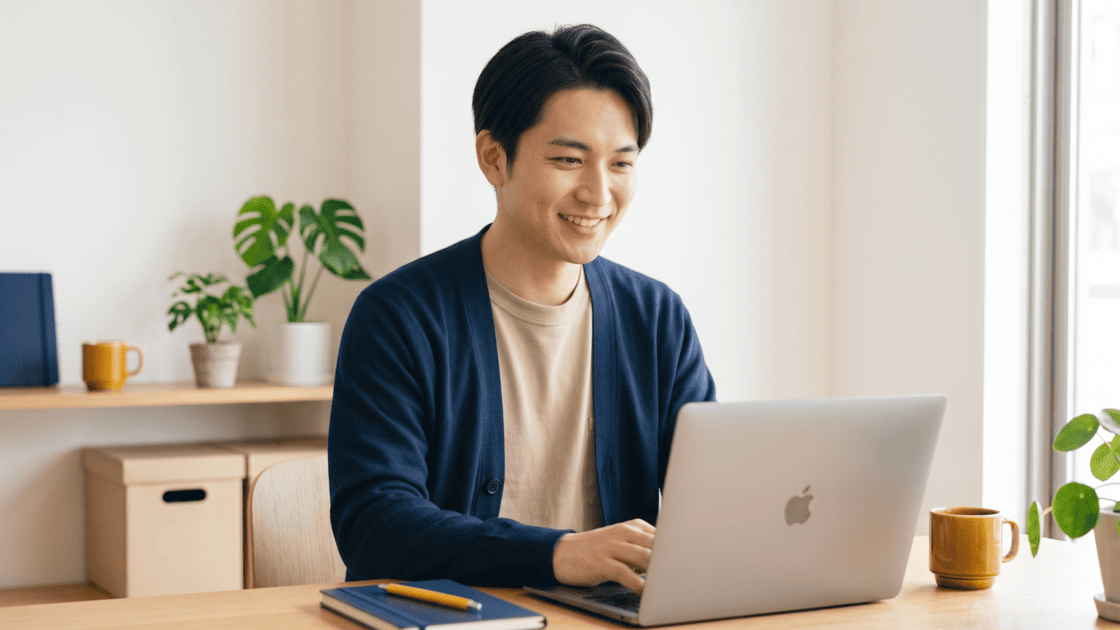
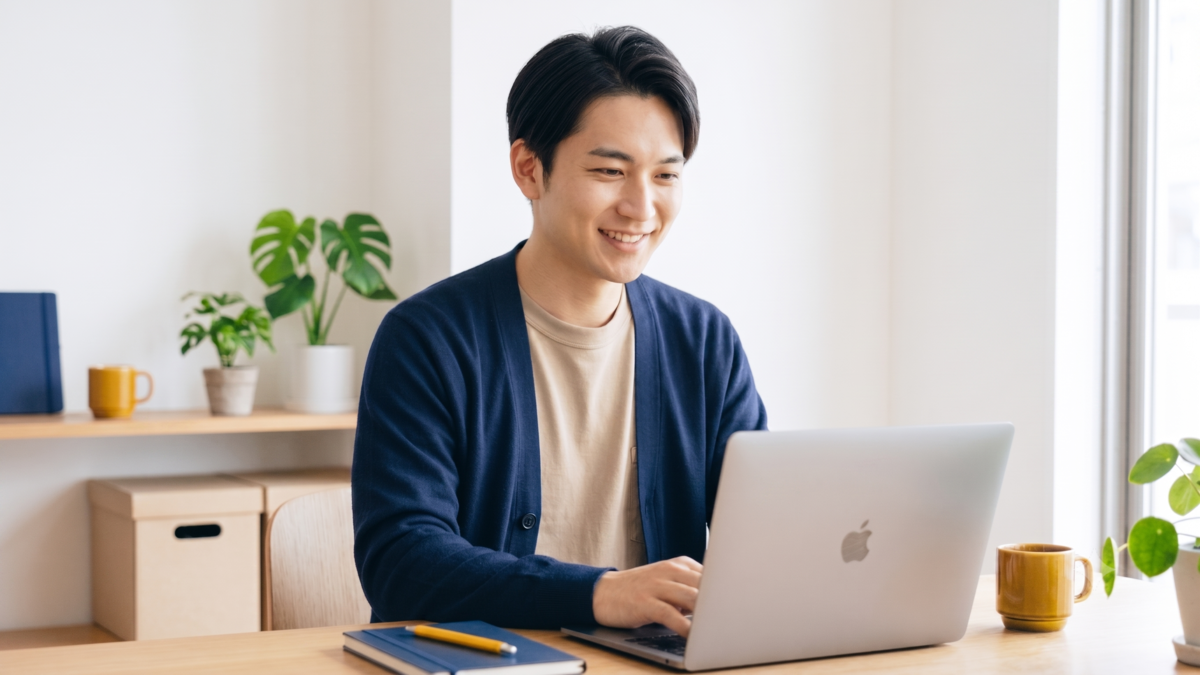
記事セクションの改修

diff --git a/components/ArticleListSection.tsx b/components/ArticleListSection.tsx
@@ -22,13 +22,79 @@ type Props = {
 };
 
 function PostMeta({ post }: { post: ArticleCard }) {
+  const categoryColor = getCategoryColor(post.category.id);
+
   return (
-    <div className="mb-2.5 flex items-center gap-3">
-      <span className="rounded-full bg-blue px-3 py-0.75 text-[11px] font-bold text-white">{post.category.name}</span>
-      <time className="font-[family-name:var(--font-oswald)] text-xs tracking-[.04em] text-navy/70" dateTime={post.publishedAt}>
+    <div className="mb-3 flex flex-wrap items-center gap-3 max-md:mb-2 max-md:gap-2.25">
+      <span
+        className="rounded-full border-[1.5px] border-navy px-3 py-1 text-[11px] leading-none font-bold text-navy max-md:px-2.5 max-md:py-0.75 max-md:text-[10px]"
+        style={{ backgroundColor: categoryColor }}
+      >
+        {post.category.name}
+      </span>
+      <time className="font-mono text-[11px] tracking-[.1em] text-[#8A93A8] max-md:text-[10px] max-md:tracking-[.04em]" dateTime={post.publishedAt}>
         {dayjs(post.publishedAt).format('YYYY.MM.DD')}
       </time>
     </div>
+  );
+}
+
+function getCategoryColor(categoryId: string) {
+  if (categoryId === 'career') {
+    return '#F3C9A6';
+  }
+
+  if (categoryId === 'programming') {
+    return '#C6D9F5';
+  }
+
+  if (categoryId === 'study-method') {
+    return '#C3E3CE';
+  }
+
+  return '#F5C543';
+}
+
+function SectionBackground({ type }: { type: 'recommended' | 'new' }) {
+  const isRecommended = type === 'recommended';
+
+  return (
+    <div className="pointer-events-none absolute inset-0 -z-1 overflow-hidden" aria-hidden="true">
+      {isRecommended ? (
+        <>
+          <svg className="absolute -top-8.5 right-17.5 size-52.5 opacity-[.06] max-md:-top-4.5 max-md:right-4.5 max-md:size-30" viewBox="0 0 24 24" fill="none">
+            <polygon points="12 2 15.09 8.26 22 9.27 17 14.14 18.18 21.02 12 17.77 5.82 21.02 7 14.14 2 9.27 8.91 8.26 12 2" stroke="#17233D" strokeLinecap="round" strokeLinejoin="round" strokeWidth="1.1" />
+          </svg>
+          <svg className="absolute bottom-1.5 left-[3%] size-37.5 opacity-[.05] max-md:bottom-2 max-md:left-[4%] max-md:size-21.5" viewBox="0 0 24 24" fill="none">
+            <polyline points="16 18 22 12 16 6" stroke="#17233D" strokeLinecap="round" strokeLinejoin="round" strokeWidth="1.1" />
+            <polyline points="8 6 2 12 8 18" stroke="#17233D" strokeLinecap="round" strokeLinejoin="round" strokeWidth="1.1" />
+          </svg>
+        </>
+      ) : (
+        <>
+          <svg className="absolute -top-7 right-16.5 size-50 opacity-[.06] max-md:-top-4 max-md:right-4 max-md:size-29" viewBox="0 0 24 24" fill="none">
+            <path d="M9.94 15.5A2 2 0 0 0 8.5 14.06l-6.14-1.58a.5.5 0 0 1 0-.96L8.5 9.94A2 2 0 0 0 9.94 8.5l1.58-6.14a.5.5 0 0 1 .96 0l1.58 6.14a2 2 0 0 0 1.44 1.44l6.14 1.58a.5.5 0 0 1 0 .96l-6.14 1.58a2 2 0 0 0-1.44 1.44l-1.58 6.14a.5.5 0 0 1-.96 0z" stroke="#17233D" strokeLinecap="round" strokeLinejoin="round" strokeWidth="1.1" />
+          </svg>
+          <svg className="absolute bottom-3 left-[3%] size-35 opacity-[.05] max-md:bottom-2.5 max-md:left-[4%] max-md:size-20.5" viewBox="0 0 24 24" fill="none">
+            <path d="M15 2H6a2 2 0 0 0-2 2v16a2 2 0 0 0 2 2h12a2 2 0 0 0 2-2V7z" stroke="#17233D" strokeLinecap="round" strokeLinejoin="round" strokeWidth="1.1" />
+            <path d="M14 2v4a2 2 0 0 0 2 2h4" stroke="#17233D" strokeLinecap="round" strokeLinejoin="round" strokeWidth="1.1" />
+          </svg>
+        </>
+      )}
+      <svg className="absolute top-[42%] right-[33%] size-13 opacity-[.06] max-md:hidden" viewBox="0 0 24 24" fill="none">
+        <path d="M12 2 2 12l10 10 10-10z" stroke="#17233D" strokeLinecap="round" strokeLinejoin="round" strokeWidth="1.1" />
+      </svg>
+    </div>
+  );
+}
+
+function HeadingIcon() {
+  return (
+    <span className="inline-flex size-7.5 items-center justify-center rounded-[9px] border-[1.5px] border-navy bg-yellow text-navy max-md:size-7 max-md:rounded-lg">
+      <svg className="size-4.25 max-md:size-3.75" viewBox="0 0 24 24" fill="none" aria-hidden="true">
+        <path d="M12 2l2.68 5.43 5.99.87-4.34 4.23 1.02 5.97L12 15.68 6.65 18.5l1.02-5.97L3.33 8.3l5.99-.87L12 2Z" stroke="currentColor" strokeLinecap="round" strokeLinejoin="round" strokeWidth="2" />
+      </svg>
+    </span>
   );
 }
 
@@ -46,58 +112,66 @@ export function ArticleListSection({
   }
 
   const [featuredPost, ...restPosts] = posts;
+  const isRecommended = englishTitle.toLowerCase().includes('recommended');
+  const sectionType = isRecommended ? 'recommended' : 'new';
   const cardClass =
-    'fade border-[1.5px] border-navy bg-white transition-[transform,border-color] duration-250 hover:-translate-y-1 hover:border-[#d9a521]';
+    'fade border-[1.5px] border-navy bg-white text-navy transition-[transform,box-shadow] duration-200 hover:-translate-x-0.5 hover:-translate-y-0.5 hover:shadow-[6px_6px_0_rgba(23,35,61,.14)]';
   const thumbClass =
-    'relative flex aspect-video items-center justify-center overflow-hidden border-b-[1.5px] border-navy bg-[repeating-linear-gradient(-45deg,#EAF1FB,#EAF1FB_12px,#dfeafd_12px,#dfeafd_24px)]';
+    'relative flex aspect-video items-center justify-center overflow-hidden bg-[#EFE7D5]';
+  const featuredOrderClass = isRecommended ? 'md:order-1' : 'md:order-2';
+  const listOrderClass = isRecommended ? 'md:order-2' : 'md:order-1';
 
   return (
-    <section className={`${sectionClass} article-list-section article-list-section--${variant} ${className}`}>
+    <section className={`relative isolate overflow-hidden ${sectionClass} article-list-section article-list-section--${variant} ${className}`}>
+      <SectionBackground type={sectionType} />
       <div className={innerClass}>
-        <div className="fade mb-12 flex flex-wrap items-end justify-between gap-4">
+        <div className="fade flex flex-wrap items-end justify-between gap-8 max-md:block">
           <div>
             <span className={outlineTitleClass}>{englishTitle}</span>
-            <h2 className="mt-3.5 text-[clamp(22px,3vw,30px)] font-bold">{title}</h2>
-            {lead && <p className="mt-3.5 max-w-170 text-[14.5px] text-navy/88 max-md:text-[13.5px]">{lead}</p>}
+            <div className="mt-3.5 flex items-center gap-3 max-md:mt-3 max-md:gap-2.5">
+              <HeadingIcon />
+              <h2 className="text-[18px] leading-[1.5] font-black max-md:text-[16px]">{title}</h2>
+            </div>
+            {lead && <p className="mt-4 max-w-160 text-[14px] leading-[2] text-[#33405A] max-md:mt-3.5 max-md:text-[13px] max-md:leading-[1.95]">{lead}</p>}
           </div>
           {showArchiveLink && (
-            <Link className={pillClass} href="/column">
+            <Link className={`${pillClass} mb-0.5 max-md:hidden`} href="/column">
               記事一覧を見る
               <span className={pillArrowClass}><ArrowIcon /></span>
             </Link>
           )}
         </div>
-        <div className="mt-2 grid grid-cols-[1.05fr_.95fr] gap-7 max-md:grid-cols-1">
-          <Link className={`${cardClass} block overflow-hidden rounded-xl`} href={`/column/${featuredPost.id}`}>
-            <div className={thumbClass}>
+        <div className="mt-9.5 grid grid-cols-[1.08fr_1fr] items-start gap-6.5 max-md:mt-6 max-md:grid-cols-1 max-md:gap-3.5">
+          <Link className={`${cardClass} ${featuredOrderClass} order-1 block overflow-hidden rounded-2xl shadow-[6px_6px_0_rgba(23,35,61,.08)] max-md:rounded-2xl max-md:shadow-[5px_5px_0_rgba(23,35,61,.1)]`} href={`/column/${featuredPost.id}`}>
+            <div className={`${thumbClass} border-b-[1.5px] border-navy`}>
               <Image
                 src={featuredPost.image.url}
                 alt={featuredPost.title}
                 fill
-                sizes="(max-width: 768px) calc(100vw - 48px), 575px"
+                sizes="(max-width: 768px) calc(100vw - 44px), 575px"
                 className="!h-full !w-full object-cover opacity-100"
               />
             </div>
-            <div className="px-5.5 pt-5 pb-6">
+            <div className="px-6 py-5.5 max-md:px-4.5 max-md:py-4.5">
               <PostMeta post={featuredPost} />
-              <h3 className="line-clamp-2 text-[19px] leading-[1.6]">{featuredPost.title}</h3>
+              <h3 className="line-clamp-2 text-[20px] leading-[1.65] font-extrabold max-md:text-[17px] max-md:leading-[1.6]">{featuredPost.title}</h3>
             </div>
           </Link>
-          <div className="flex flex-col gap-4">
+          <div className={`${listOrderClass} order-2 flex flex-col gap-4 max-md:gap-3.25`}>
             {restPosts.slice(0, 3).map((post) => (
-              <Link className={`${cardClass} grid grid-cols-[120px_1fr] items-center gap-4 rounded-xl p-3.5 max-md:grid-cols-1 max-md:gap-0 max-md:overflow-hidden max-md:p-0`} key={post.id} href={`/column/${post.id}`}>
-                <div className={`${thumbClass} aspect-16/9 rounded-lg border border-navy max-md:aspect-video max-md:rounded-none max-md:border-0 max-md:border-b-2`}>
+              <Link className={`${cardClass} grid grid-cols-[136px_1fr] items-center gap-4 rounded-[14px] p-3 max-md:grid-cols-[112px_1fr] max-md:gap-3.5 max-md:p-2.75`} key={post.id} href={`/column/${post.id}`}>
+                <div className={`${thumbClass} rounded-lg border border-navy/25`}>
                   <Image
                     src={post.image.url}
                     alt={post.title}
                     fill
-                    sizes="(max-width: 768px) calc(100vw - 48px), 120px"
+                    sizes="(max-width: 768px) 112px, 136px"
                     className="!h-full !w-full object-cover opacity-100"
                   />
                 </div>
-                <div className="max-md:px-5 max-md:pt-4 max-md:pb-5.5">
+                <div className="min-w-0">
                   <PostMeta post={post} />
-                  <h3 className="line-clamp-2 mt-1.5 text-[14.5px] leading-[1.6] max-md:mt-0 max-md:text-[16.5px]">{post.title}</h3>
+                  <h3 className="line-clamp-2 text-[14.5px] leading-[1.7] font-bold max-md:text-[13px] max-md:leading-[1.65]">{post.title}</h3>
                 </div>
               </Link>
             ))}

diff --git a/components/HomeHero.tsx b/components/HomeHero.tsx
@@ -2,6 +2,18 @@ import Image from 'next/image';
 import Link from 'next/link';
 import { ArrowIcon } from './ArrowIcon';
 
+function getTodayYmd() {
+  const parts = new Intl.DateTimeFormat('ja-JP', {
+    day: '2-digit',
+    month: '2-digit',
+    timeZone: 'Asia/Tokyo',
+    year: 'numeric',
+  }).formatToParts(new Date());
+  const values = Object.fromEntries(parts.map((part) => [part.type, part.value]));
+
+  return `${values.year}${values.month}${values.day}`;
+}
+
 function LabiteWordmarkBackground() {
   return (
     <div
@@ -28,6 +40,8 @@ function LabiteWordmarkBackground() {
 }
 
 function BrowserPhoto({ compact = false }: { compact?: boolean }) {
+  const imageVersion = getTodayYmd();
+
   return (
     <div className={`relative mx-auto w-full max-w-[506px] max-lg:max-w-[560px] ${compact ? 'max-md:max-w-[330px]' : ''}`}>
       <div className="relative overflow-hidden rounded-[16px] border-[1.5px] border-navy bg-white shadow-[8px_8px_0_rgba(29,43,80,.1)]">
@@ -48,10 +62,11 @@ function BrowserPhoto({ compact = false }: { compact?: boolean }) {
 
         <div className="relative aspect-[16/12.1] bg-[#EFE7D5]">
           <Image
-            src="/images/top-fv.png"
+            src={`/images/top-fv.png?v=${imageVersion}`}
             alt="ノートPCで作業する男性"
             fill
             priority
+            unoptimized
             sizes="(max-width: 768px) 100vw, 506px"
             className="object-cover"
           />

diff --git a/app/page.tsx b/app/page.tsx
@@ -316,7 +316,7 @@ export default async function Home() {
         lead="Webエンジニア学習、未経験からの転職、現場で役立つ考え方など、Labiteで公開した最新の記事を掲載しています。気になるテーマから読み進めてください。"
       />
 
-      <section className="relative isolate overflow-hidden border-y-[1.5px] border-navy bg-[#E7EEF9] py-[88px] max-md:px-[22px] max-md:py-12">
+      <section className="relative isolate overflow-hidden border-t-[1.5px] border-navy bg-[#E7EEF9] py-[88px] max-md:px-[22px] max-md:py-12">
         <CategoryBackground />
         <div className="mx-auto max-w-280 px-8 max-md:px-0">
           <div className="fade">
